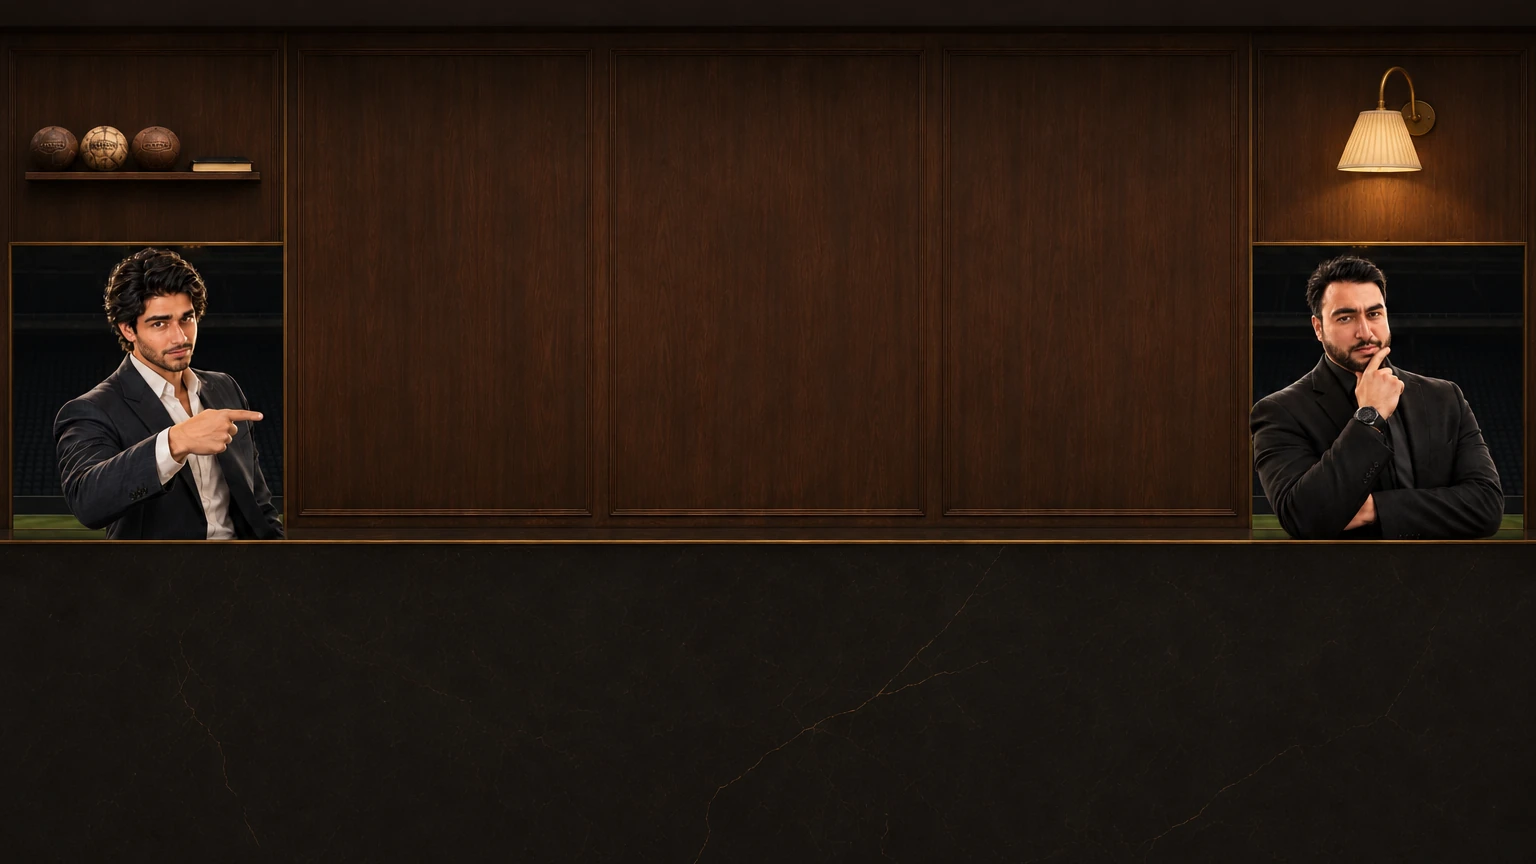
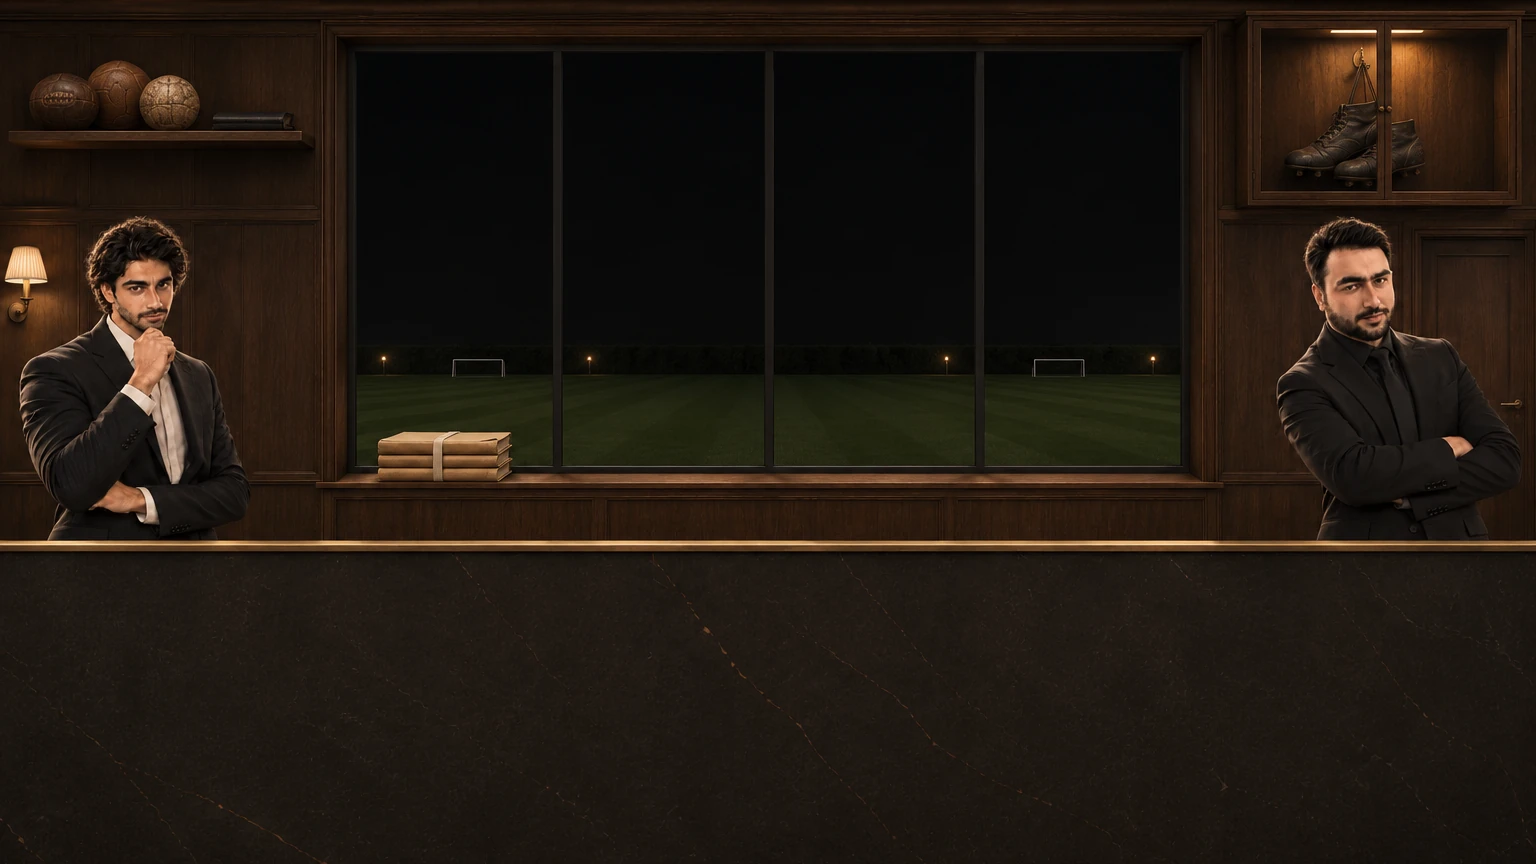
HO-069: HC 23 V2 try 2 passed (coaches desktop re-encoded, lip 542); HC 24 tries + ball fix run
Claude-Session: https://claude.ai/code/session_01GU43Q7DGKBkW2AjMf6jJyd

diff --git a/project-documents/factory/tools/hc/encode_ho069.py b/project-documents/factory/tools/hc/encode_ho069.py
@@ -3,7 +3,7 @@ Desktop: 16:9 rows of the 1536x1024 pick -> 1X 1536x864 (<=200 KB), 2X Lanczos 3
 import io, json, os, sys
 from PIL import Image
 R = 'project-documents/factory/reviews/HC/'; OUT = 'project-documents/hc-art/'
-ROOMS = {'hall': ('HC21_START_D_V2_TRY2', 906, 130), 'coaches': ('HC23_SQUAD_D_TRY1', 640, 100)}  # file, lip y in 1024, top row
+ROOMS = {'hall': ('HC21_START_D_V2_TRY2', 906, 130), 'coaches': ('HC23_SQUAD_D_V2_TRY2', 642, 100)}  # file, lip y in 1024, top row
 def save(img, path, cap):
     for q in range(90, 40, -5):
         b = io.BytesIO(); img.save(b, 'WEBP', quality=q, method=6)

diff --git a/project-documents/factory/tickets/RUN_HC24_SQUAD_V2.md b/project-documents/factory/tickets/RUN_HC24_SQUAD_V2.md
@@ -23,3 +23,11 @@ Portrait 2:3, the largest size available. Faces and shoulders stay in the band f
 ```
 Wrong last time: cyan is left, the men were redrawn, moved or made bigger, or something was added on the marble. Copy the two men pixel for pixel exactly where and as big as they are, the man on the left on the left; paint every cyan part as the oak room and window above the lip and plain marble below it.
 ```
+
+## Fix run (12 Nov): change only the two balls
+Try 2 (reviews/HC/HC24_SQUAD_P_V2_TRY2.png) passed except the two balls on the shelf, which came out oval like rugby balls. New normal chat, attach only HC24_SQUAD_P_V2_TRY2.png, paste:
+
+```
+Edit this photo. Change only the two balls on the shelf at the top left: make them two old round association footballs (soccer balls), perfectly round, of laced brown leather panels with worn stitching, one darker than the other, resting on the shelf with a small soft contact shadow, nothing written on them. Everything else stays exactly as it is, pixel for pixel: the two men, their faces, the room, the windows, the lamp, the door, the counter and the marble. Same size and shape as the photo.
+```
+Save as `HC24_SQUAD_P_V2.png`.
